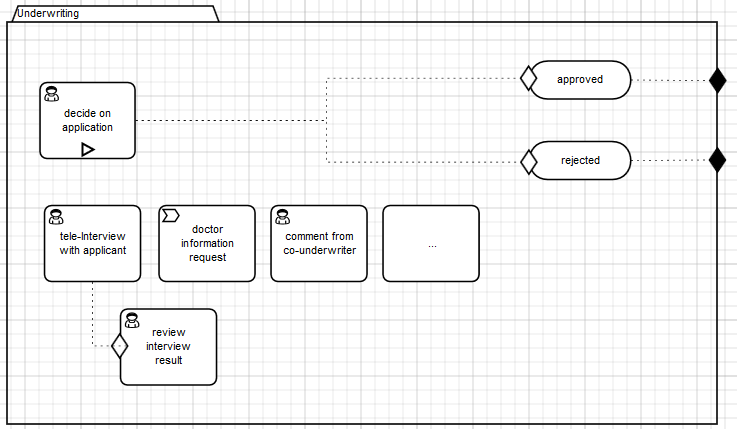
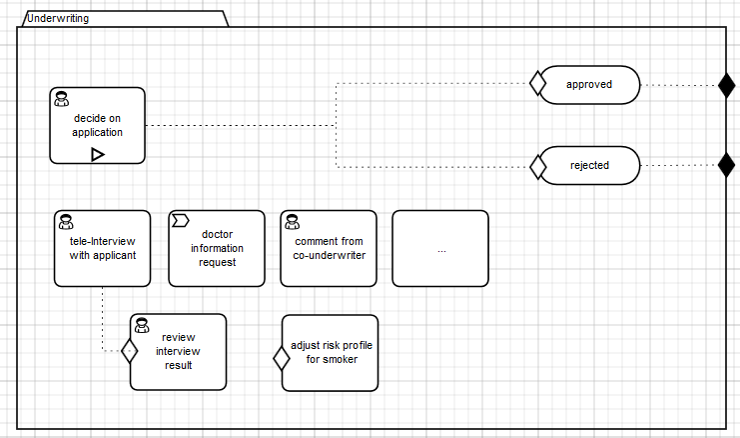
added "smoker"

Changed region(s): [[0.0, 0.0, 1.0, 1.0], [0.1248, 0.697, 0.3121, 0.9091], [0.3745, 0.697, 0.5305, 0.9091]]

diff --git a/one-time-examples/2015-01-webinars/webinar-cmmn/src/main/java/com/camunda/demo/webinar/cmmn/domain/Application.java b/one-time-examples/2015-01-webinars/webinar-cmmn/src/main/java/com/camunda/demo/webinar/cmmn/domain/Application.java
@@ -9,6 +9,8 @@ public class Application {
   private String customerId;
   private String customerName;
   
+  private boolean smoker;
+  
   public Application() {
     id = UUID.randomUUID().toString();
     id = id.substring(0, 8);
@@ -36,6 +38,14 @@ public class Application {
 
   public void setId(String id) {
     this.id = id;
+  }
+
+  public boolean isSmoker() {
+    return smoker;
+  }
+
+  public void setSmoker(boolean smoker) {
+    this.smoker = smoker;
   }
 
 }
